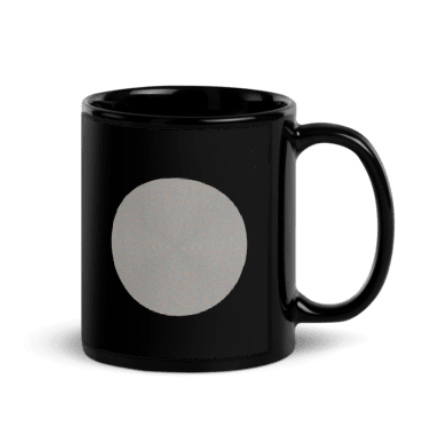
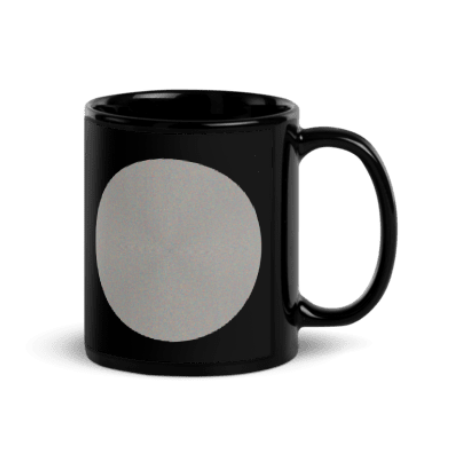
Mug preview: two-sided display with polygon front + pi back
- Front: polygon lines composited (barrel warp) over spiral circle mockup
- Back: static pi digits mockup image shown as-is
- Updated black mug front mockup to larger circle version
- Added polygon-lines render (no spiral background) for mug overlay
- Hide flip button and back design picker for mug (back is fixed)
- Per-color print zone override for precise polygon positioning
- Keep blank mug images for potential future use

Changed region(s): [[0.1749, 0.1749, 0.9036, 0.8453]]

diff --git a/js/shop.js b/js/shop.js
@@ -83,16 +83,18 @@ const Shop = (() => {
     mug: {
       label: 'Mug',
       colors: [
-        { name: 'White', swatch: '#ffffff', dark: false,
-          mugFront: 'mockups/mug-white-polygon.png', mugBack: 'mockups/mug-white-pi.png' },
-        { name: 'Black', swatch: '#1a1a1a', dark: true,
-          mugFront: 'mockups/mug-black-polygon.png', mugBack: 'mockups/mug-black-pi.png' },
+        { name: 'White', swatch: '#ffffff', src: 'mockups/mug-white-polygon.png', dark: false,
+          backSrc: 'mockups/mug-white-pi.png' },
+        { name: 'Black', swatch: '#1a1a1a', src: 'mockups/mug-black-polygon.png?v=2', dark: true,
+          backSrc: 'mockups/mug-black-pi.png',
+          printOverride: { x: 0.18, y: 0.32, w: 0.40, h: 0.55 } },
       ],
-      frontCrop: null,
-      backCrop: null,
-      frontPrint: null,
+      frontCrop: { x: 0, y: 0, w: 1, h: 1 },
+      backCrop:  { x: 0, y: 0, w: 1, h: 1 },
+      // Print zone centered on the gray circle
+      frontPrint: { x: 0.20, y: 0.30, w: 0.40, h: 0.55 },
       backPrint: null,
-      hasBack: false,
+      hasBack: true,
       isMug: true,
     },
     sticker: {
@@ -130,7 +132,7 @@ const Shop = (() => {
   }
 
   function _reRenderDesigns() {
-    const designs = ['polygon', 'pimark', 'heatmap'];
+    const designs = ['polygon', 'polygon-lines', 'pimark', 'heatmap'];
     for (const d of designs) {
       try { designImages[d] = _renderDesign(d, PREVIEW_SIZE); } catch (e) { console.error(e); }
     }
@@ -164,7 +166,7 @@ const Shop = (() => {
 
     // Re-render all designs
     designImages = {};
-    const designs = ['polygon', 'pimark', 'heatmap'];
+    const designs = ['polygon', 'polygon-lines', 'pimark', 'heatmap'];
     let i = 0;
     function renderNext() {
       if (i >= designs.length) return;
@@ -206,7 +208,7 @@ const Shop = (() => {
     showPreview();
 
     // Render designs in background, yielding between each to keep UI responsive
-    const designs = ['polygon', 'pimark', 'heatmap'];
+    const designs = ['polygon', 'polygon-lines', 'pimark', 'heatmap'];
     let i = 0;
     function renderNext() {
       if (i >= designs.length) return;
@@ -232,6 +234,7 @@ const Shop = (() => {
     ctx.clearRect(0, 0, size, size);
 
     if (type === 'polygon') _renderPolygon(ctx, size);
+    else if (type === 'polygon-lines') _renderPolygon(ctx, size, true);
     else if (type === 'heatmap') _renderHeatmap(ctx, size);
     else if (type === 'pimark') _renderPiMark(ctx, size);
 
@@ -306,14 +309,16 @@ const Shop = (() => {
       imgSize, imgSize);
   }
 
-  function _renderPolygon(ctx, size) {
+  function _renderPolygon(ctx, size, linesOnly) {
     const t = _getSpiralTransform(size);
     if (!t) return;
 
-    if (_spiralBgLoaded) {
-      _drawSpiralBg(ctx, t, size);
-    } else {
-      _drawSpiralDots(ctx, t);
+    if (!linesOnly) {
+      if (_spiralBgLoaded) {
+        _drawSpiralBg(ctx, t, size);
+      } else {
+        _drawSpiralDots(ctx, t);
+      }
     }
 
     if (capturedChunks && capturedChunks.length > 0) {
@@ -922,9 +927,10 @@ const Shop = (() => {
   // Cache loaded mockup images to avoid reloading on every preview update
   const _mockupCache = {};
 
-  function _compositeFrame(container, cropRegion, printZone, designDataUrl, colorObj) {
+  function _compositeFrame(container, cropRegion, printZone, designDataUrl, colorObj, srcOverride) {
     const col = colorObj || _getColor();
     const crop = col.cropOverride || cropRegion;
+    const print = col.printOverride || printZone;
 
     function _doComposite(img) {
       const srcX = crop.x * img.width;
@@ -951,31 +957,46 @@ const Shop = (() => {
 
       const dImg = new Image();
       dImg.onload = () => {
-        const px = printZone.x * outW;
-        const py = printZone.y * outH;
-        const pw = printZone.w * outW;
-        const ph = printZone.h * outH;
+        const px = print.x * outW;
+        const py = print.y * outH;
+        const pw = print.w * outW;
+        const ph = print.h * outH;
+
+        function drawDesign() {
+          if (product === 'mug') {
+            // Barrel warp for cylindrical mug surface
+            const slices = 50, curve = 0.12;
+            for (let i = 0; i < slices; i++) {
+              const t = i / slices;
+              const yOff = curve * Math.pow((t - 0.5) * 2, 2) * ph;
+              ctx.drawImage(dImg,
+                t * dImg.width, 0, dImg.width / slices, dImg.height,
+                px + t * pw, py + yOff / 2, pw / slices + 1, ph - yOff);
+            }
+          } else {
+            ctx.drawImage(dImg, px, py, pw, ph);
+          }
+        }
 
         if (col.dark) {
           ctx.globalCompositeOperation = 'screen';
           ctx.globalAlpha = 0.9;
-          ctx.drawImage(dImg, px, py, pw, ph);
+          drawDesign();
           ctx.globalCompositeOperation = 'source-over';
           ctx.globalAlpha = 0.25;
-          ctx.drawImage(dImg, px, py, pw, ph);
+          drawDesign();
         } else {
           ctx.globalCompositeOperation = 'multiply';
           ctx.globalAlpha = 1;
-          ctx.drawImage(dImg, px, py, pw, ph);
+          drawDesign();
           ctx.globalCompositeOperation = 'source-over';
           ctx.globalAlpha = 0.55;
-          ctx.drawImage(dImg, px, py, pw, ph);
+          drawDesign();
         }
 
         ctx.globalCompositeOperation = 'source-over';
         ctx.globalAlpha = 1;
 
-        // Swap in the finished canvas without flashing
         canvas.className = 'mockup-canvas';
         container.innerHTML = '';
         container.appendChild(canvas);
@@ -984,15 +1005,16 @@ const Shop = (() => {
     }
 
     // Use cached mockup image if available
-    if (_mockupCache[col.src]) {
-      _doComposite(_mockupCache[col.src]);
+    const mockupSrc = srcOverride || col.src;
+    if (_mockupCache[mockupSrc]) {
+      _doComposite(_mockupCache[mockupSrc]);
     } else {
       const img = new Image();
       img.onload = () => {
-        _mockupCache[col.src] = img;
+        _mockupCache[mockupSrc] = img;
         _doComposite(img);
       };
-      img.src = col.src;
+      img.src = mockupSrc;
     }
   }
 
@@ -1056,100 +1078,35 @@ const Shop = (() => {
 
     // Show/hide back frame & tshirt-only controls
     const backDesignGroup = document.getElementById('backDesignGroup');
-    const showBack = cfg.hasBack || product === 'mug';
+    const showBack = cfg.hasBack;
     if (showBack) {
       if (backFrame) backFrame.classList.remove('hidden');
     } else {
       if (backFrame) backFrame.classList.add('hidden');
     }
-    if (cfg.hasBack) {
+    // Back design picker only for t-shirt (mug back is fixed pi mockup)
+    if (cfg.hasBack && product !== 'mug') {
       if (backDesignGroup) backDesignGroup.classList.remove('hidden');
     } else {
       if (backDesignGroup) backDesignGroup.classList.add('hidden');
     }
 
+    // Flip button: only for t-shirt (not mug — back is static)
+    const flipBtn = document.getElementById('shopFlip');
+    if (flipBtn) flipBtn.classList.toggle('hidden', product !== 'tshirt');
+
     // Front frame
     if (product === 'mug') {
-      // Mug: overlay polygon design on mockup photos
+      // Mug FRONT: composite polygon lines onto blank mockup with barrel warp
+      labelLeft.textContent = 'FRONT';
+      labelRight.textContent = 'BACK';
+      _compositeFrame(frameFront, cfg.frontCrop, cfg.frontPrint, designImages['polygon-lines']);
+      // Mug BACK: show the pi digits mockup as-is (design baked into photo)
       const col = _getColor();
-      labelLeft.textContent = 'POLYGON SIDE';
-      labelRight.textContent = 'π SIDE';
-      if (backFrame) backFrame.classList.remove('hidden');
-
-      // Polygon side — composite design onto mockup
-      function _compositeMugSide(container, mockupSrc, designDataUrl) {
-        const cached = _mockupCache[mockupSrc];
-        function render(mockupImg) {
-          const canvas = document.createElement('canvas');
-          const sz = 320;
-          canvas.width = sz; canvas.height = sz;
-          const ctx = canvas.getContext('2d');
-          const scale = Math.min(sz / mockupImg.width, sz / mockupImg.height);
-          const w = mockupImg.width * scale, h = mockupImg.height * scale;
-          const ox = (sz - w) / 2, oy = (sz - h) / 2;
-          ctx.drawImage(mockupImg, ox, oy, w, h);
-
-          if (designDataUrl) {
-            const dImg = new Image();
-            dImg.onload = () => {
-              // Print zone on mug
-              const px = ox + w * 0.22, py = oy + h * 0.18;
-              const pw = w * 0.48, ph = h * 0.58;
-
-              if (col.dark) {
-                ctx.globalCompositeOperation = 'screen';
-                ctx.globalAlpha = 0.85;
-              } else {
-                ctx.globalCompositeOperation = 'multiply';
-                ctx.globalAlpha = 0.95;
-              }
-
-              // Cylindrical warp — draw in vertical slices that follow barrel curve
-              const slices = 40;
-              const curve = 0.15; // how much barrel distortion
-              for (let i = 0; i < slices; i++) {
-                const t = i / slices;         // 0..1 across the width
-                const tNext = (i + 1) / slices;
-                const mid = 0.5;
-                // Barrel curve: edges compress, center expands
-                const yOff = curve * Math.pow((t - mid) * 2, 2) * ph;
-                const yOffNext = curve * Math.pow((tNext - mid) * 2, 2) * ph;
-                const sliceH = ph - yOff;
-                const sliceHNext = ph - yOffNext;
-
-                const sx = t * dImg.width;
-                const sw = dImg.width / slices;
-                const dx = px + t * pw;
-                const dw = pw / slices + 1; // +1 to avoid gaps
-
-                ctx.drawImage(dImg,
-                  sx, 0, sw, dImg.height,
-                  dx, py + yOff / 2, dw, sliceH
-                );
-              }
-
-              ctx.globalCompositeOperation = 'source-over';
-              ctx.globalAlpha = 1;
-              canvas.className = 'mockup-canvas';
-              container.innerHTML = '';
-              container.appendChild(canvas);
-            };
-            dImg.src = designDataUrl;
-          } else {
-            canvas.className = 'mockup-canvas';
-            container.innerHTML = '';
-            container.appendChild(canvas);
-          }
-        }
-        if (cached) { render(cached); }
-        else {
-          const img = new Image();
-          img.onload = () => { _mockupCache[mockupSrc] = img; render(img); };
-          img.src = mockupSrc;
-        }
+      const backSrc = col.backSrc;
+      if (backSrc) {
+        _compositeFrame(frameBack, cfg.backCrop, null, null, col, backSrc);
       }
-      _compositeMugSide(frameFront, col.mugFront, designImages['polygon']);
-      _compositeMugSide(frameBack, col.mugBack, null); // π side already has design baked in
     } else if (product === 'sticker') {
       // Sticker: render polygon design directly
       labelLeft.textContent = 'STICKER';
@@ -1194,18 +1151,18 @@ const Shop = (() => {
     }
 
     // Pi vicinity strip — show what digits fill the π (not for sticker)
-    if (product === 'sticker' || product === 'mug') {
+    if (product === 'sticker') {
       const strip = document.getElementById('piVicinityStrip');
       if (strip) strip.classList.add('hidden');
     } else {
       _renderVicinityStrip();
     }
 
-    // Back design picker (t-shirt only)
+    // Back design picker (t-shirt only, not mug)
     const picker = document.getElementById('backDesignPicker');
     if (picker) {
       picker.innerHTML = '';
-      if (cfg.hasBack) {
+      if (cfg.hasBack && product !== 'mug') {
         for (const d of ['polygon', 'heatmap']) {
           const btn = document.createElement('button');
           btn.className = 'shop-pill' + (d === backDesign ? ' active' : '');
